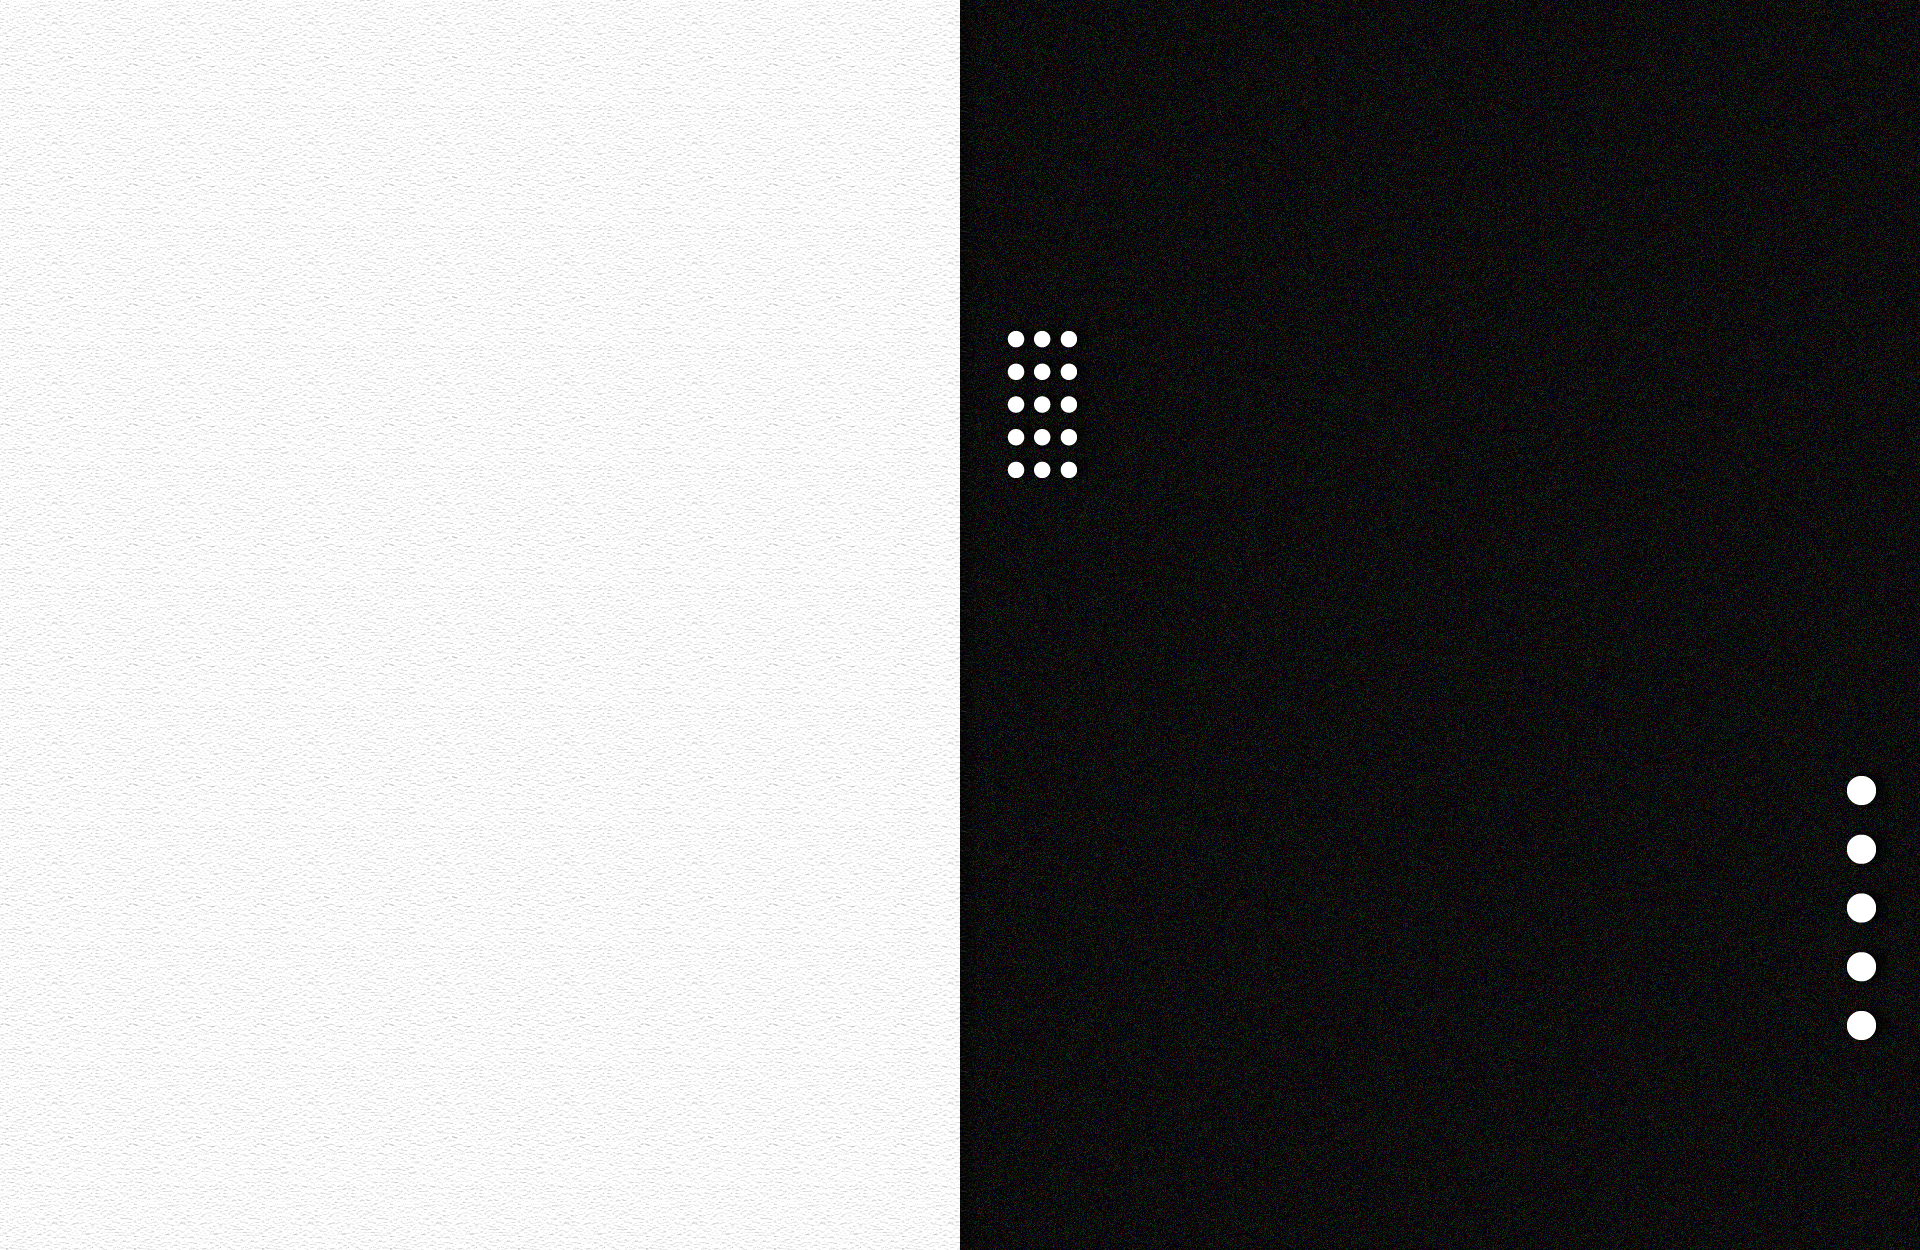
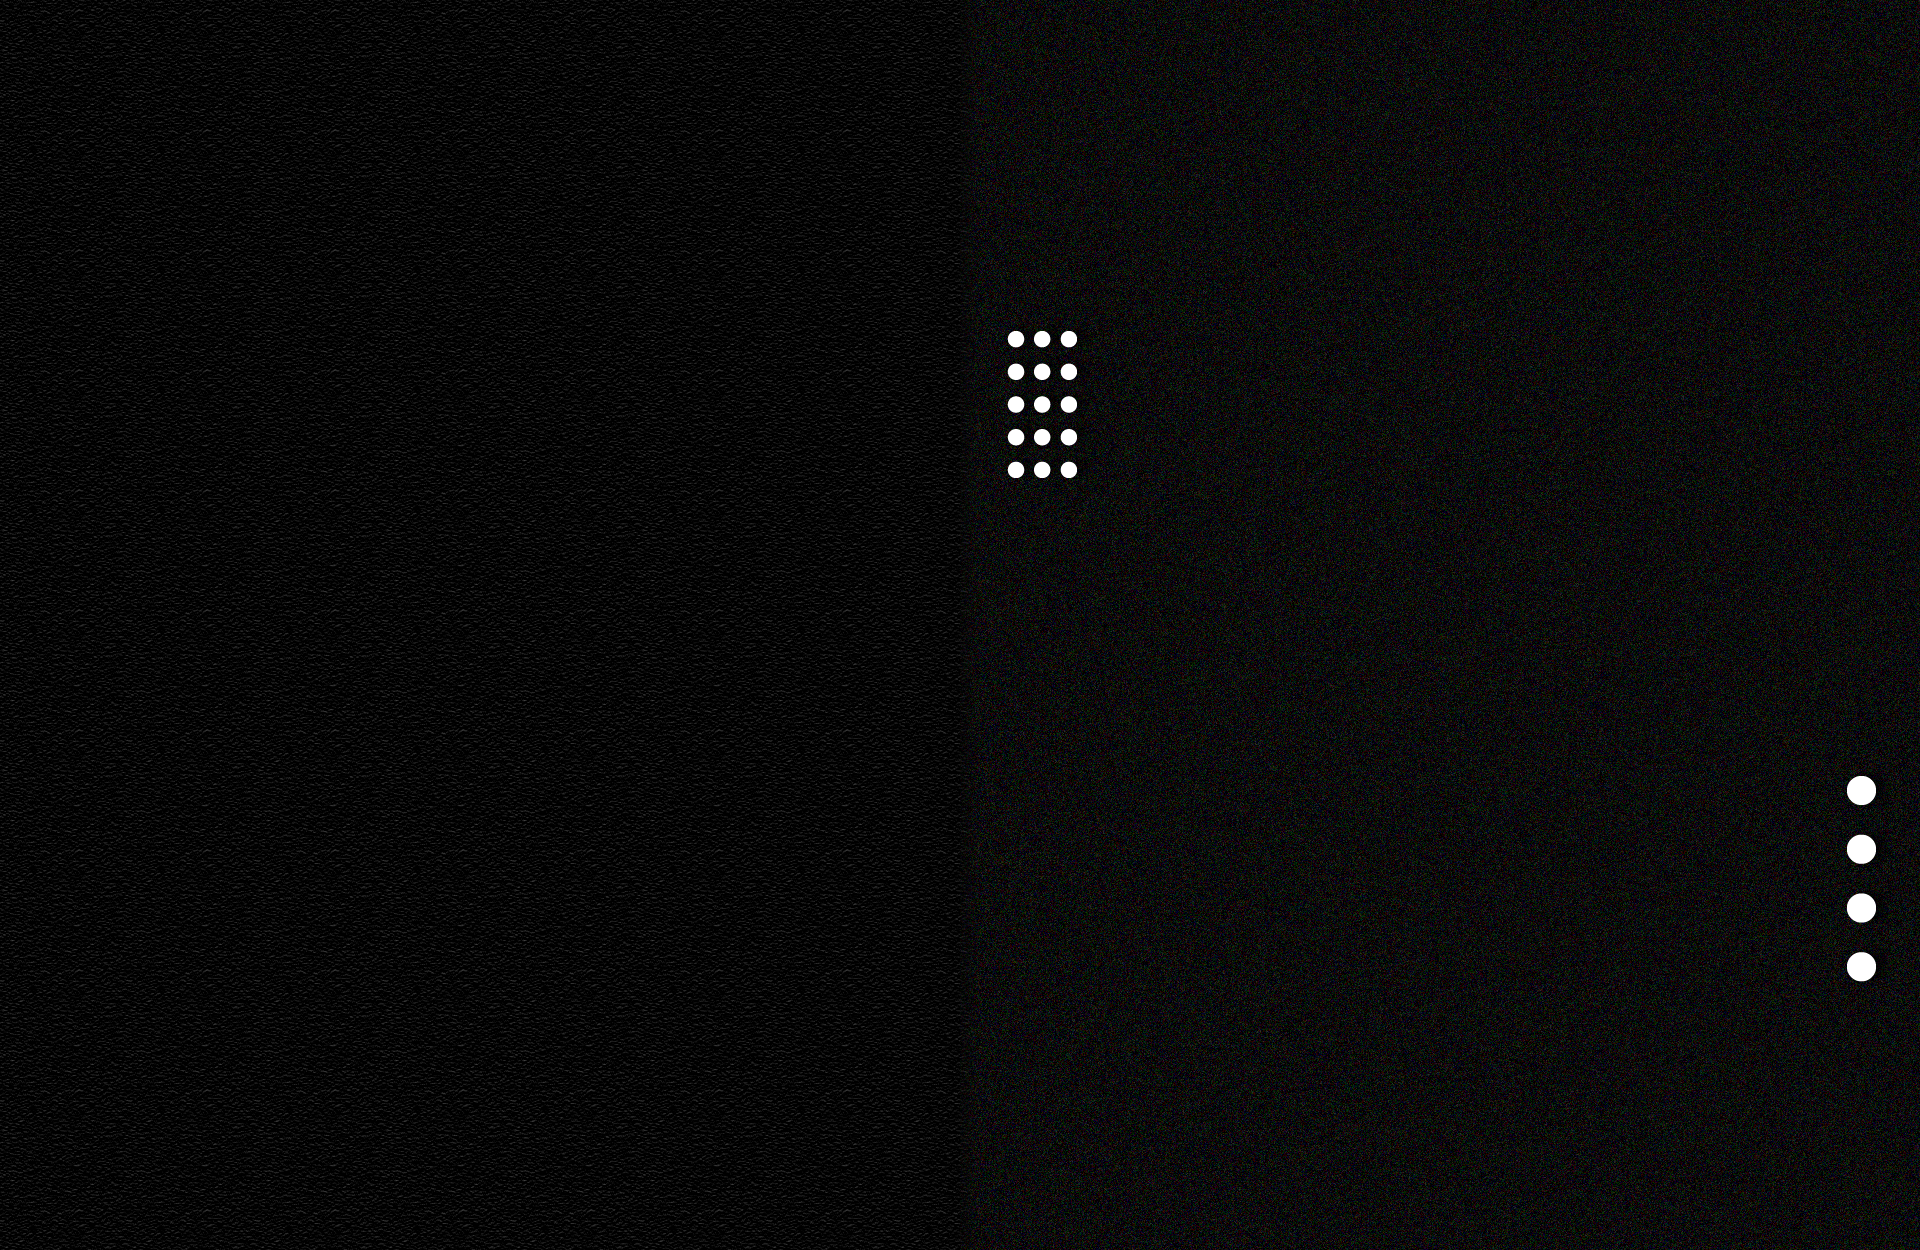
add new background

diff --git a/css/style.css b/css/style.css
@@ -183,6 +183,11 @@ a {
 .counter {
 	margin: 2% 0 0 0;
 }
+
+.header {
+	text-align: center;
+	margin-top: 50px;
+}
 .counter ul.countdown {
 	margin: 20px 0;
 	padding: 0;
@@ -314,7 +319,7 @@ a {
 }
 
 ::-webkit-scrollbar-thumb {
-	background-color: #d4af37;
+	background-color: #333333;
 	border-radius: 5px;
 }
 
@@ -406,7 +411,6 @@ body {
 .darkcounter ul.countdown {
 	margin: 48px 0;
 	padding-top: 50px;
-	display: block;
 	width: 530px;
 	float: right;
 	display: flex;
@@ -429,10 +433,10 @@ body {
 .darkcounter ul.countdown .circle{
 	display: flex;
 	flex-direction: column;
-	justify-content: center;
+	justify-content: flex-end;
 	align-items: center;
-	width: 100px;
-	height: 100px;
+	/*width: 100%;*/
+	height: 200px;
 	border-radius: 50%;
 	background-color: transparent;
 	margin: 10px;
@@ -440,6 +444,7 @@ body {
 	font-weight: bold;
 	text-align: center;
 	line-height: 1.2;
+	flex-wrap: nowrap;
 	/*border: 2px solid #d4af37;*/
 }
 
@@ -528,7 +533,7 @@ body {
 	margin: 0 0 10px 0;
 }
 .darkcounter .notify p {
-	color: #333;
+	color: #f1f1f1;
 	float: right;
 	margin: 0 0 25px 0;
 	text-align: left;
@@ -586,7 +591,7 @@ body {
 	left: 0px;
 }
 .darkfooter p {
-	color: #333;
+	color: #d4af37;
 	float: left;
 	font-size: 13px;
 	margin: 12px 0;
